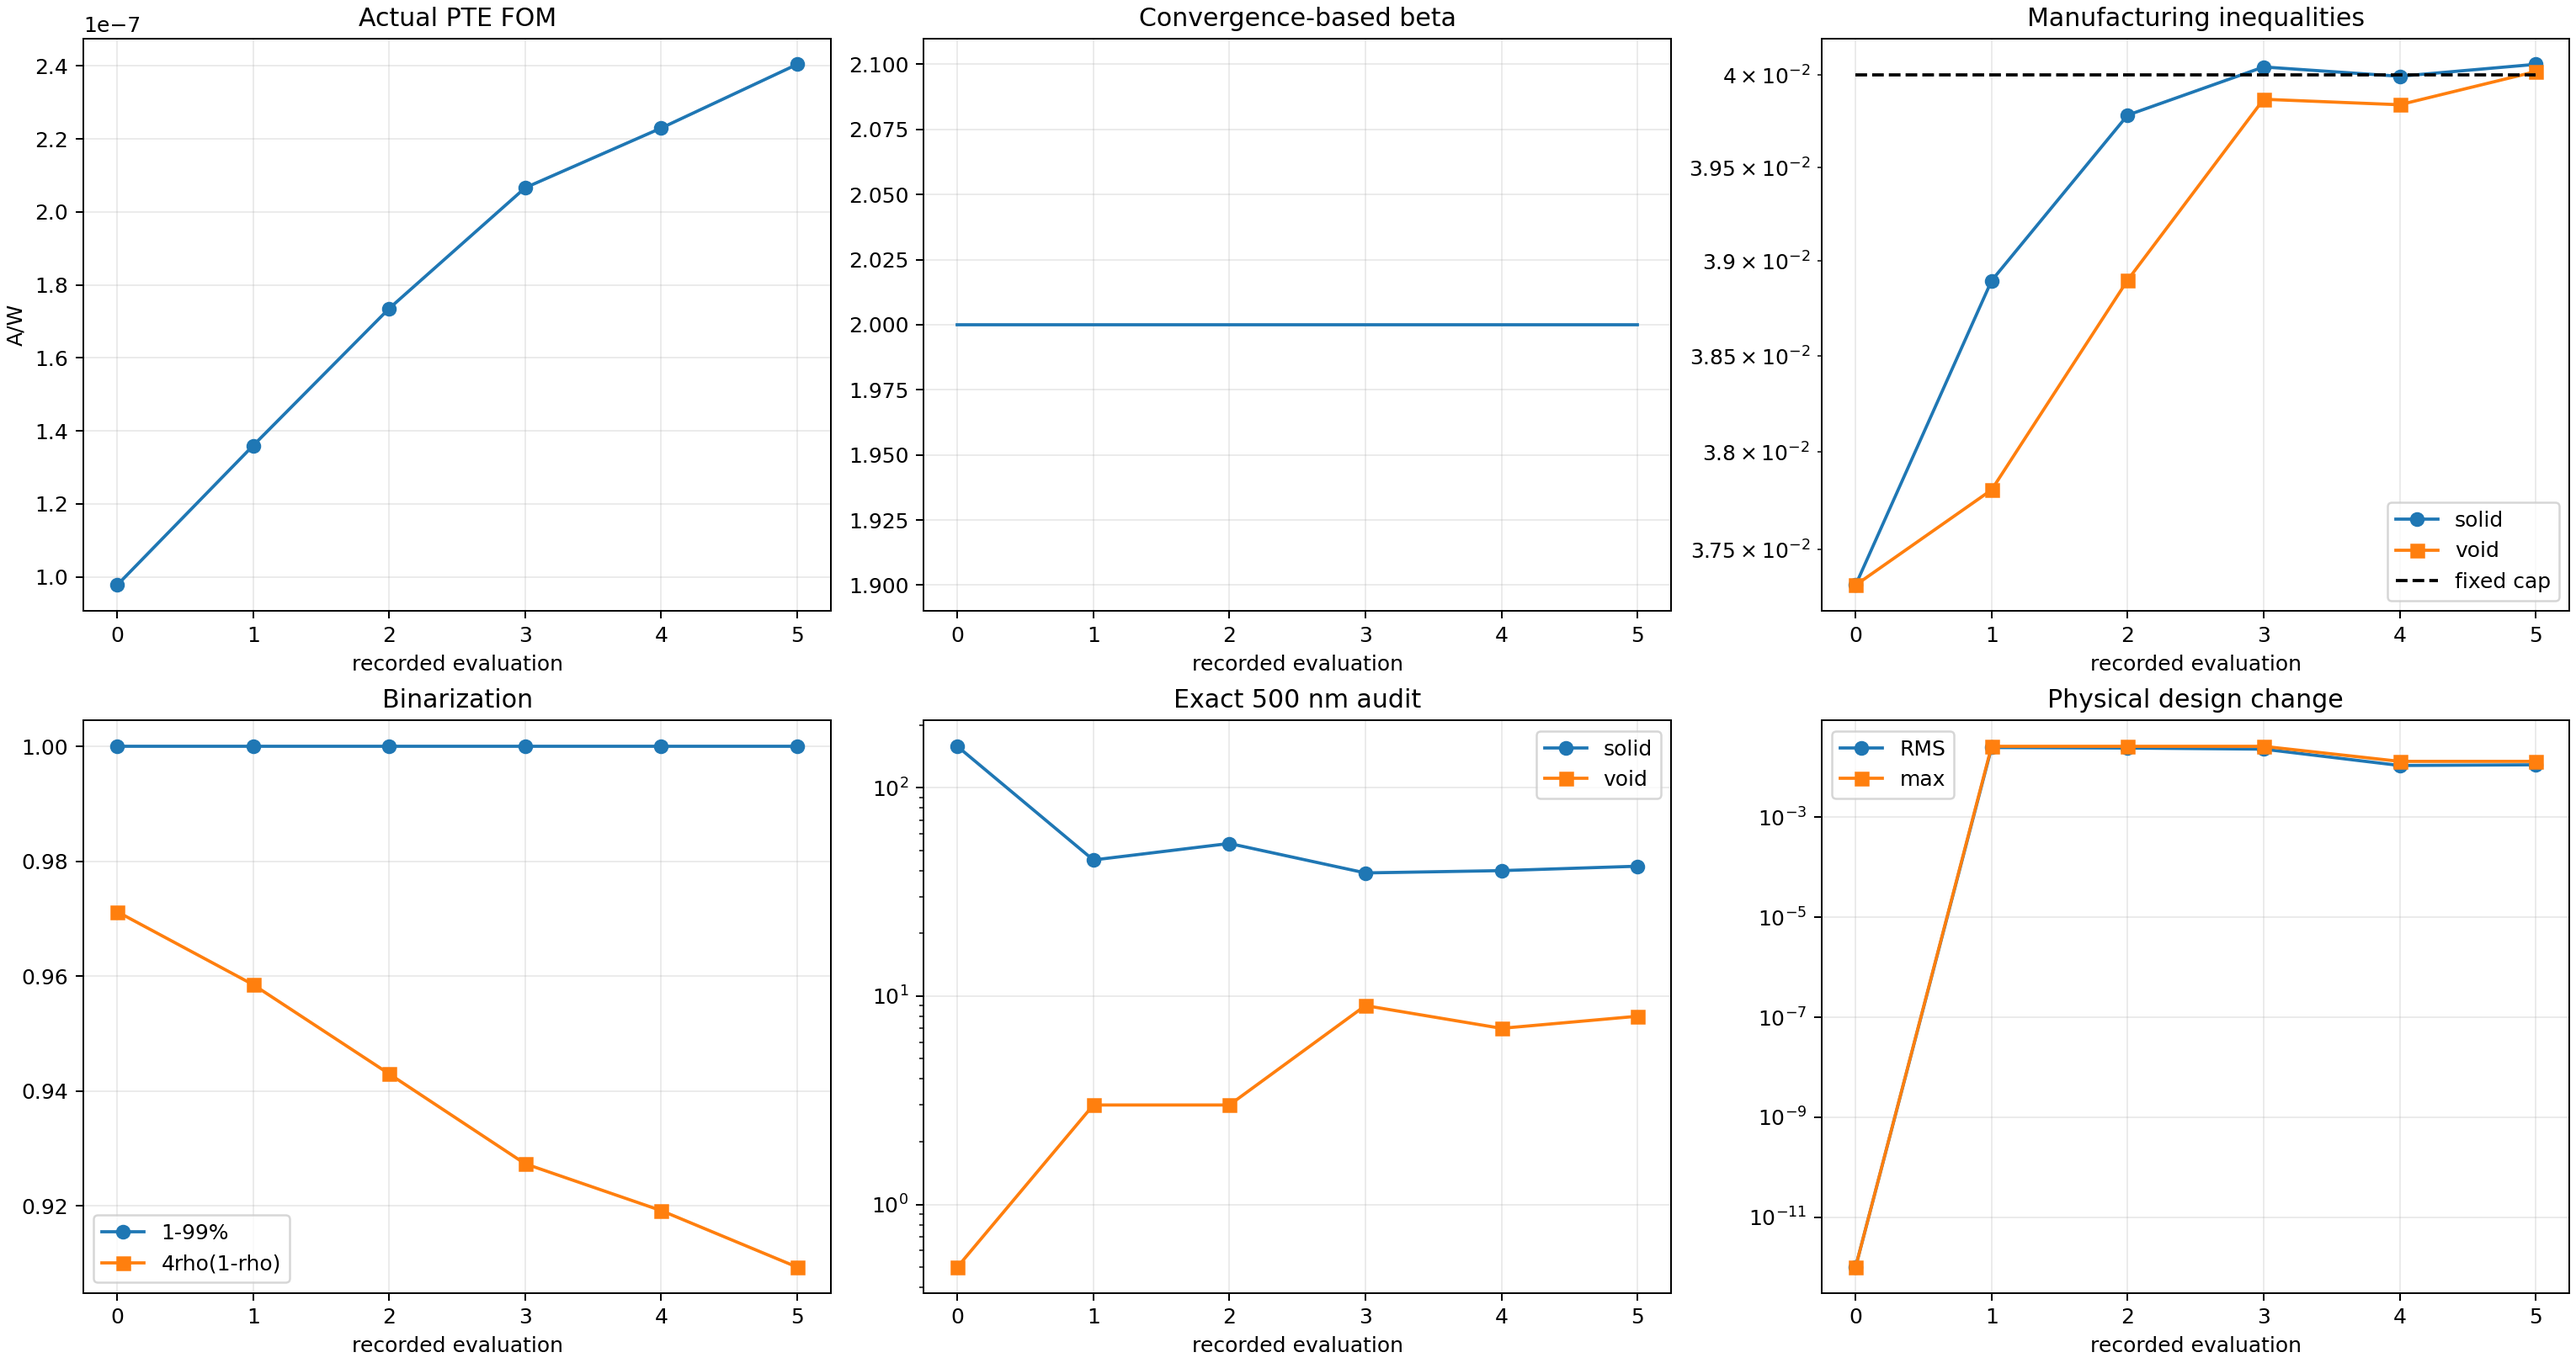
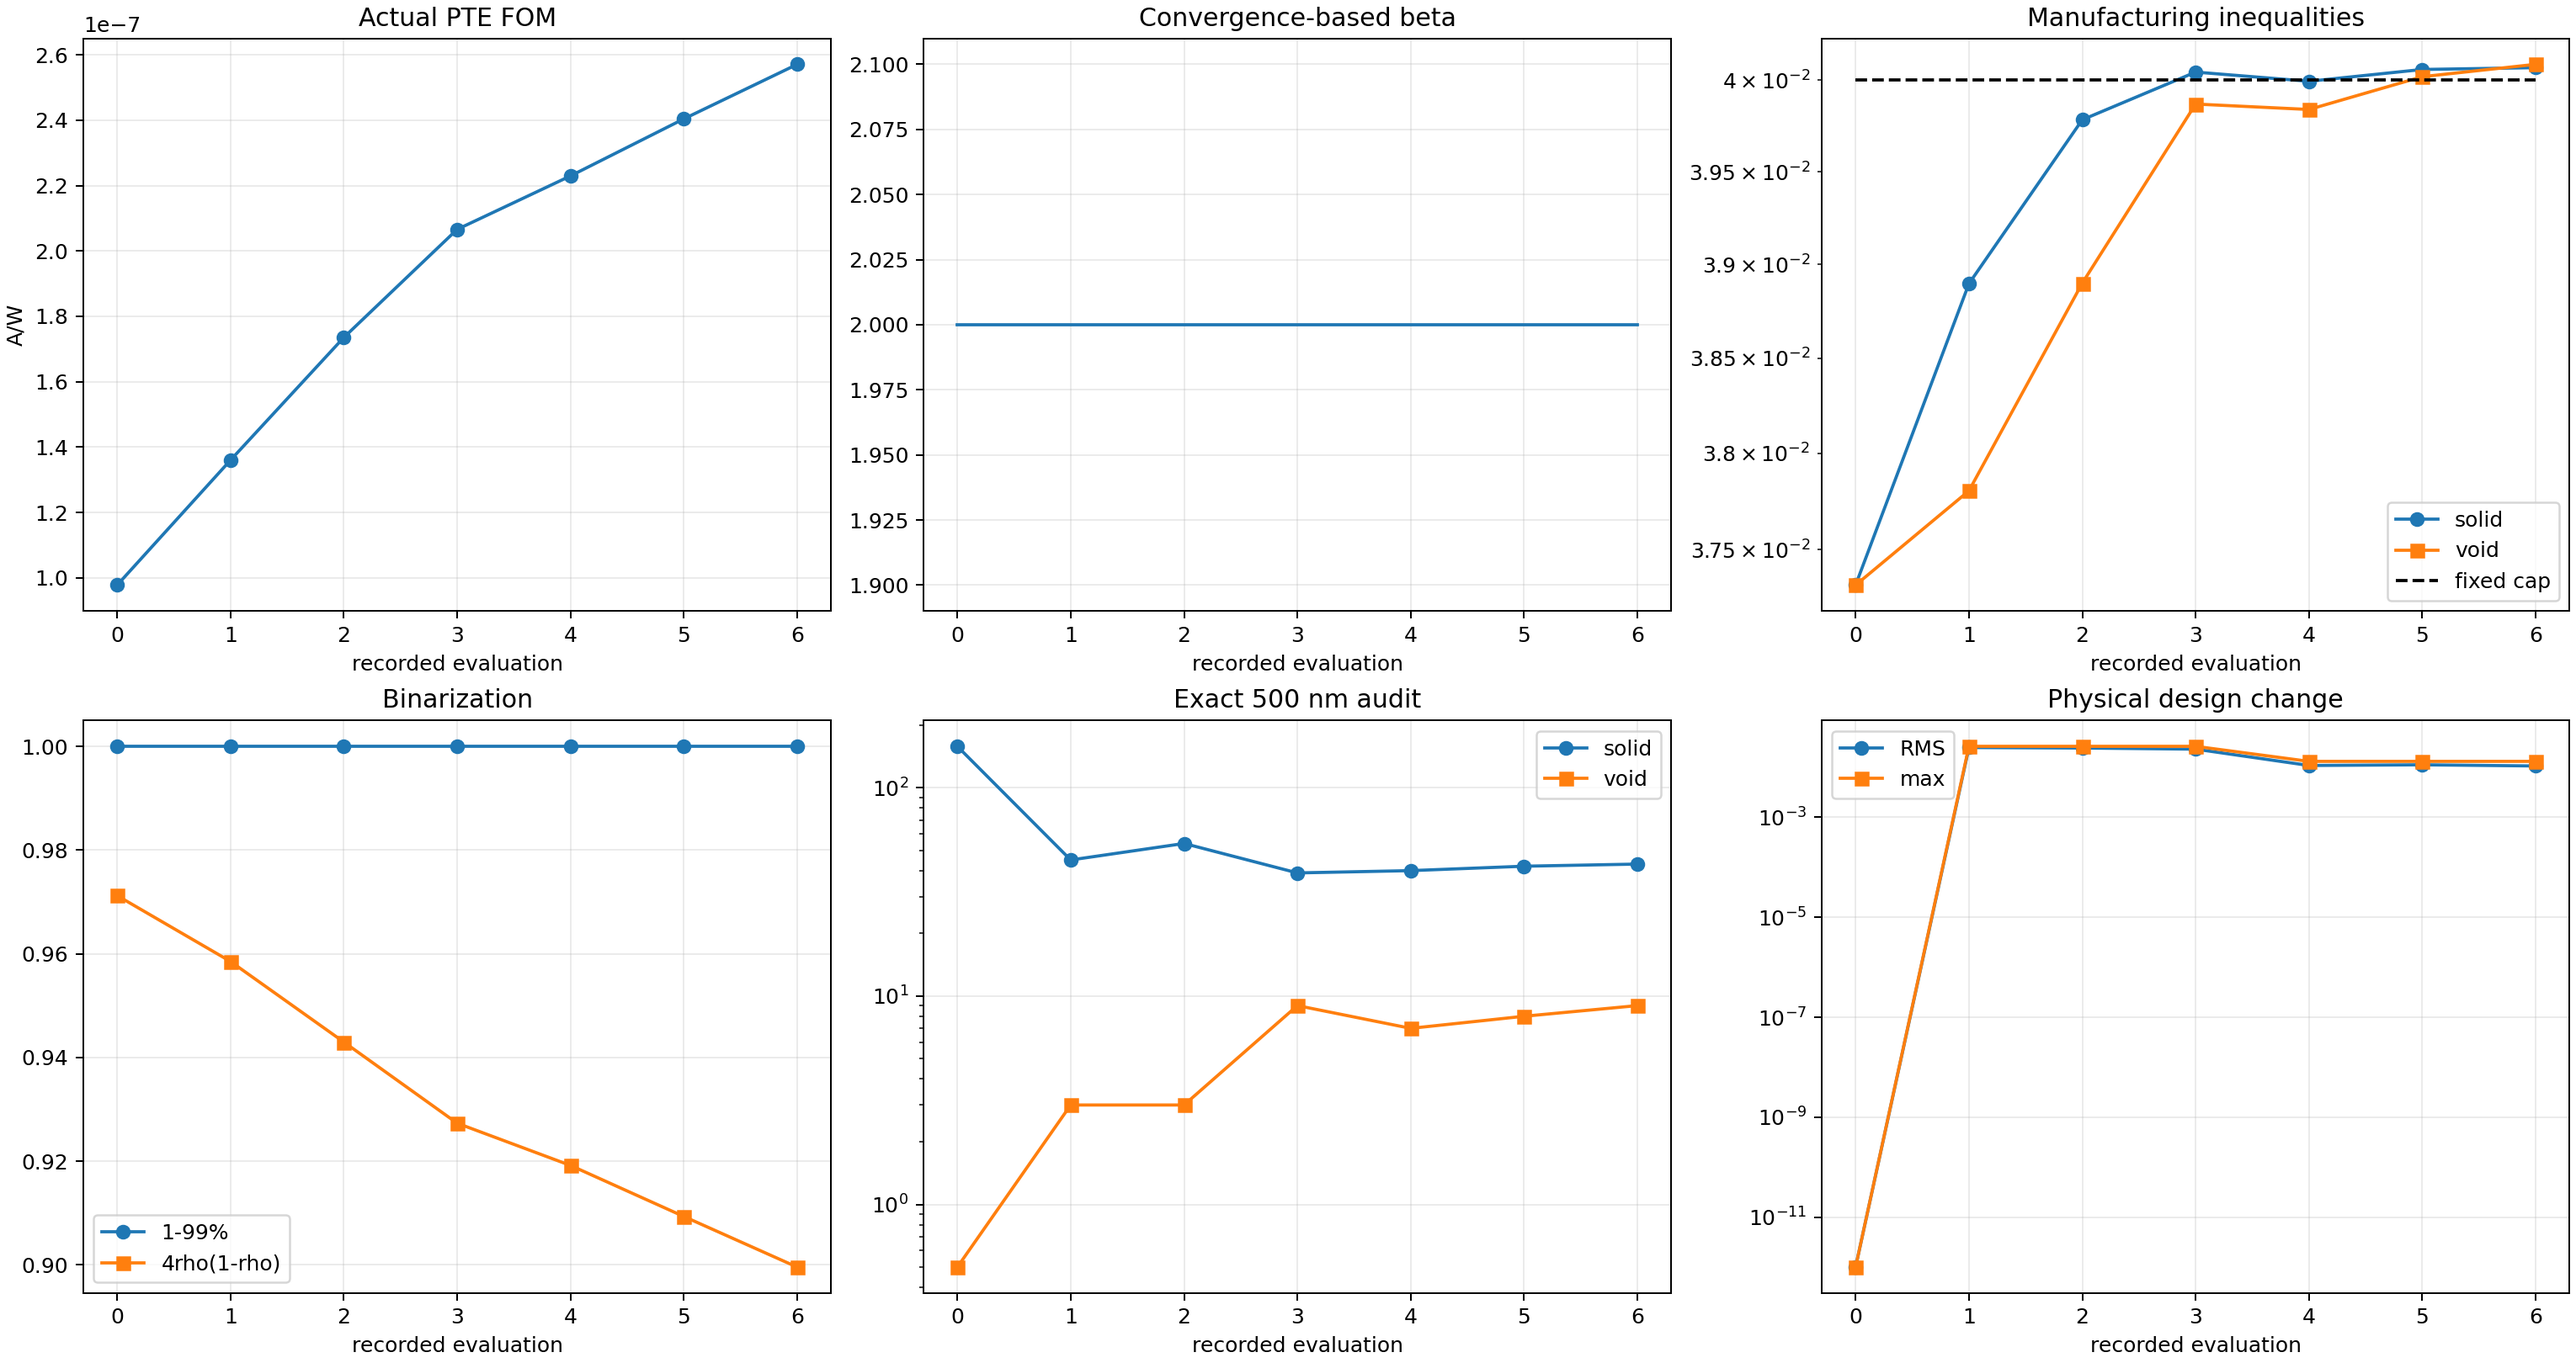
Record Run 003 run003_b002_s006_g006_accepted_mma

diff --git a/photothermal_pte/optimization_runs/run_003_gaussian10_w8p5_current_max_converged/results/OPTIMIZATION_REPORT.md b/photothermal_pte/optimization_runs/run_003_gaussian10_w8p5_current_max_converged/results/OPTIMIZATION_REPORT.md
@@ -2,10 +2,10 @@
 
 Status: `RUNNING_CONVERGENCE_BASED_CONSTRAINED_BETA_CONTINUATION`
 
-Current stage: beta=2, accepted stage iteration=5, global iteration=5.
+Current stage: beta=2, accepted stage iteration=6, global iteration=6.
 
-Actual FOM: `2.404081700490e-07 A/W`. Fixed-cap solid/void constraints: `4.005853e-02` / `4.001882e-02` with cap `4.000000e-02`.
+Actual FOM: `2.570894267747e-07 A/W`. Fixed-cap solid/void constraints: `4.006851e-02` / `4.008684e-02` with cap `4.000000e-02`.
 
-Exact 500 nm bad cells: solid `42`, void `8`. Stage convergence: `False` (need at least 10 accepted updates).
+Exact 500 nm bad cells: solid `43`, void `9`. Stage convergence: `False` (need at least 10 accepted updates).
 
 Beta is promoted only after fixed-inequality feasibility and a four-update FOM/design plateau; it is never promoted after one nominal update.
